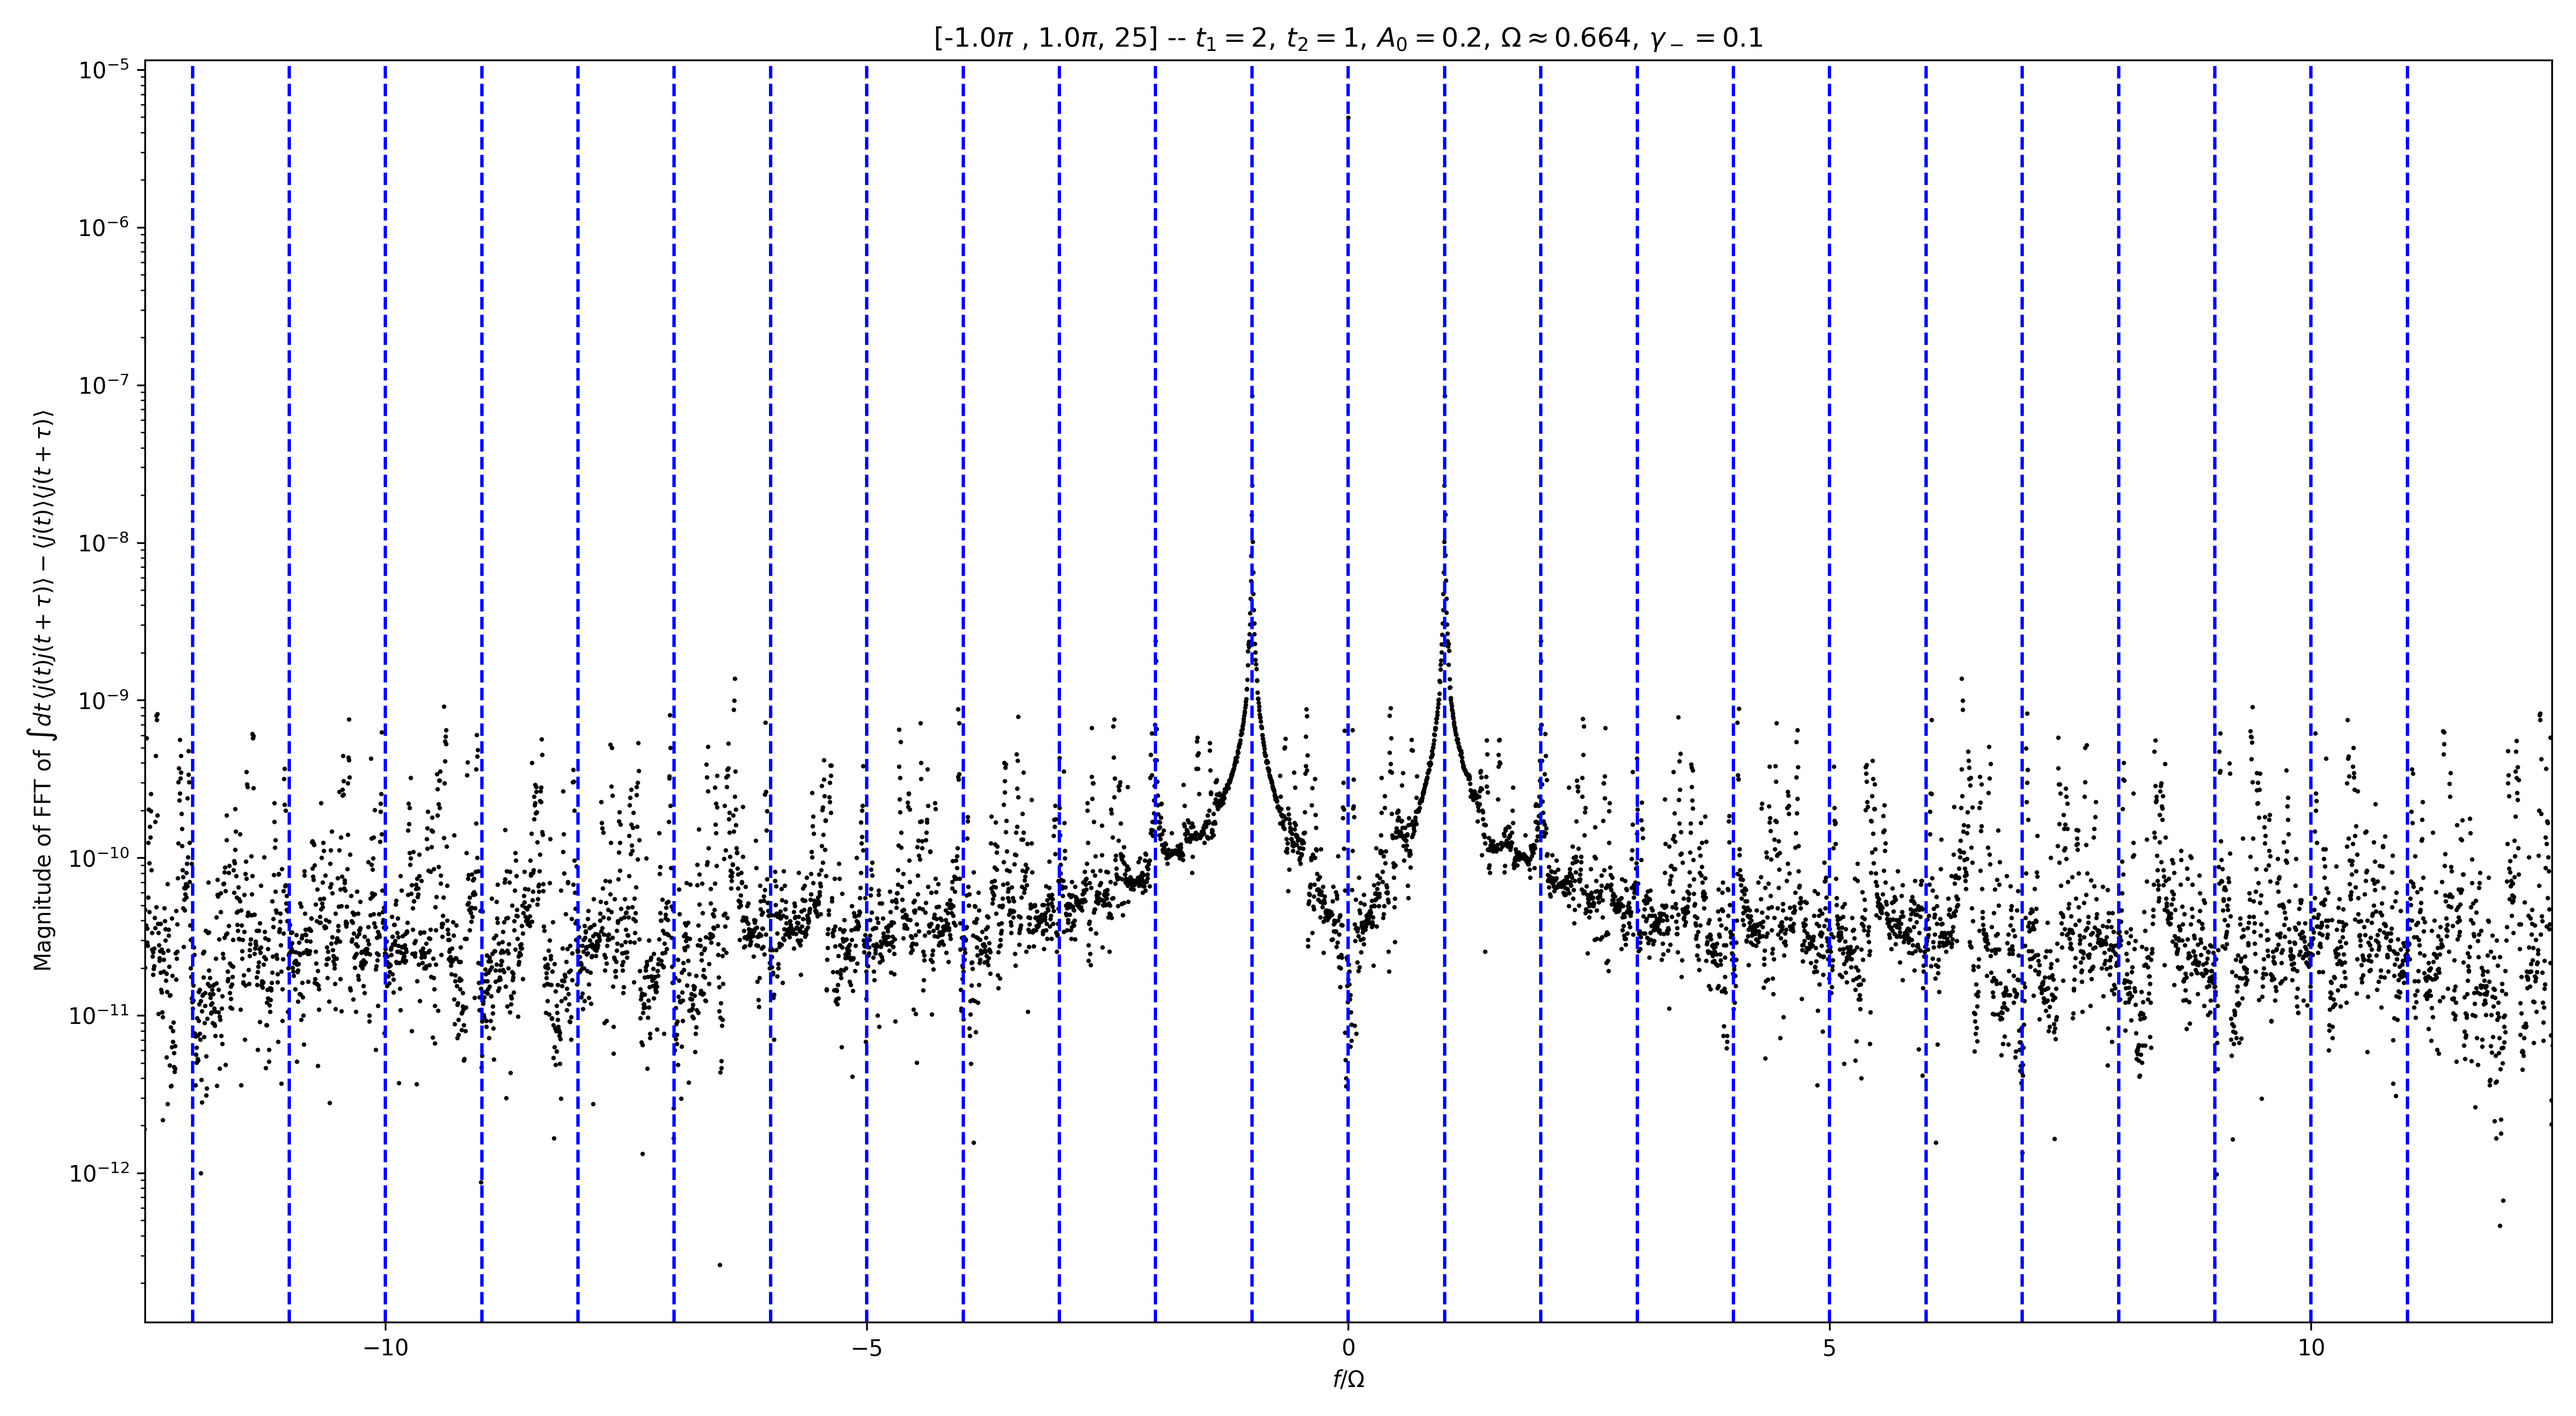
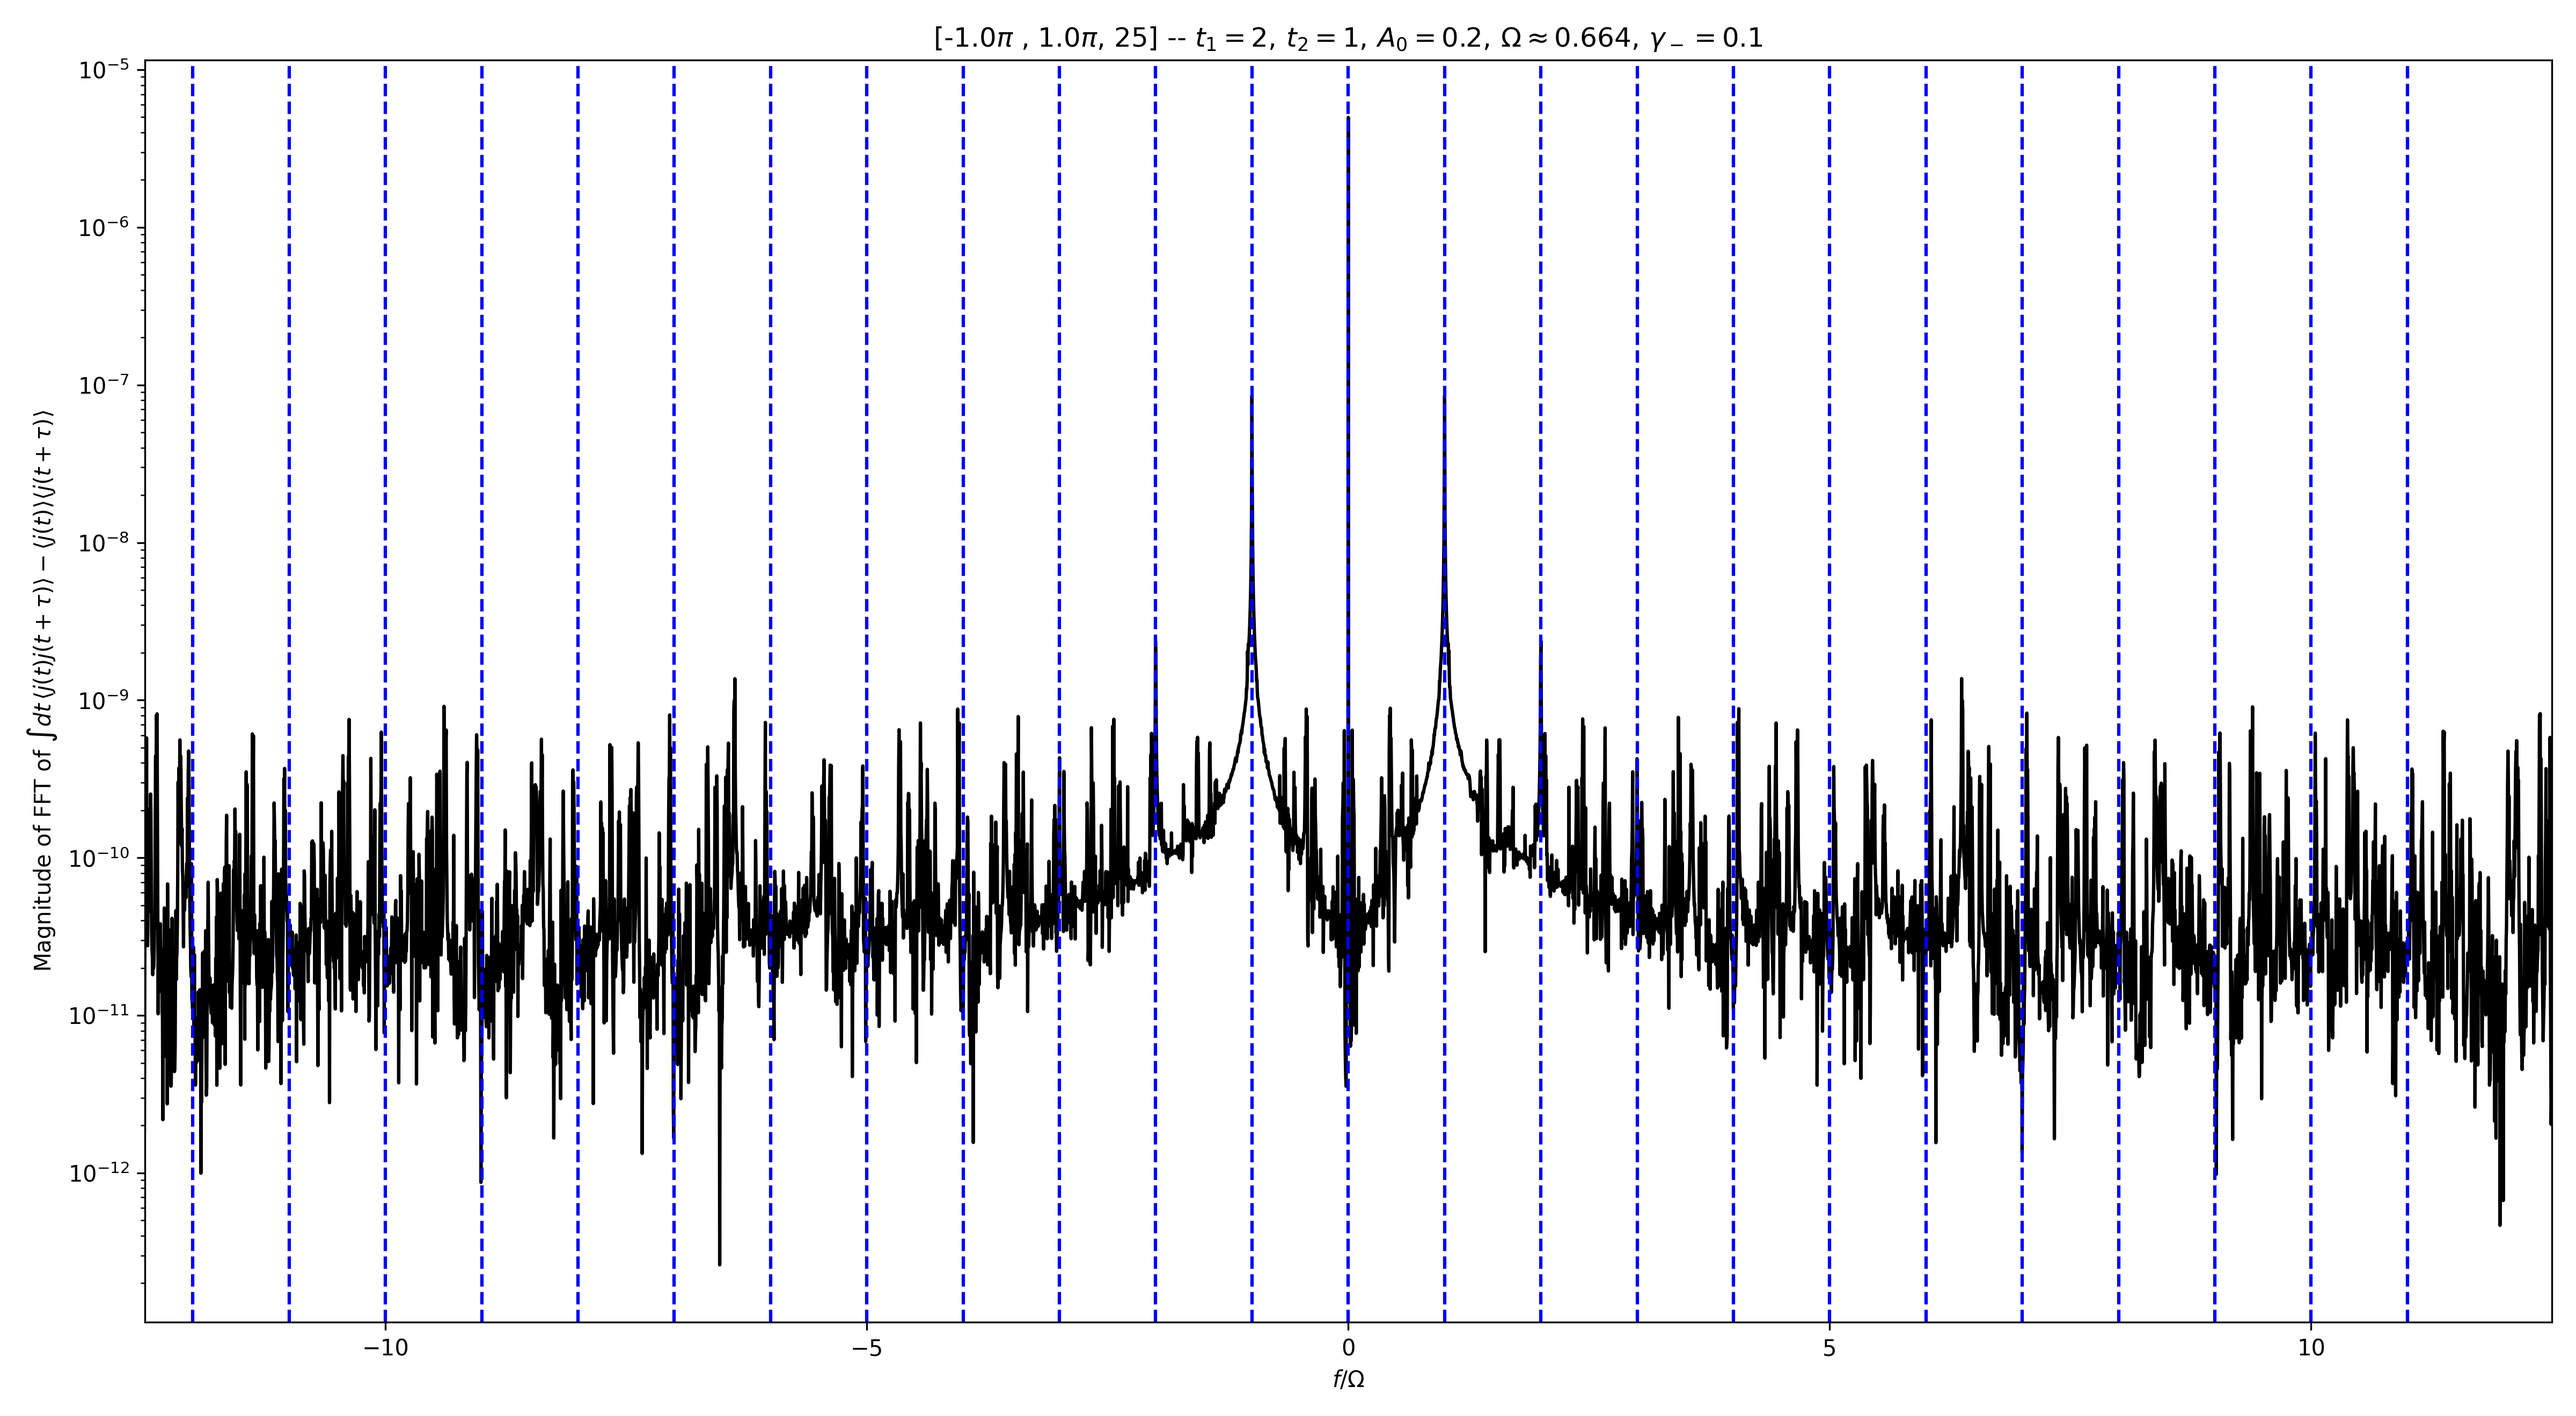
Added a bunch of plots trying to compare my and Denis' results, ran the code a bunch of times for different number of and values of k. Also, created paulialgebra.py to help with faster pauli algebra calclations, renamed denis' code to DenisSSHModel, and created denis-run which can run denis' code an

Changed region(s): [[0.0312, 0.497, 1.0, 0.8076]]

diff --git a/1d-ssh-plotting.py b/1d-ssh-plotting.py
@@ -1,11 +1,11 @@
 import numpy as np
 from SSHModel import *
 
-numK, numT = 75, 10
+numK, numT = 25, 10
 sim = SSHSimulation.Load(f"simulation-instances/numK: {numK}, numT: {numT}.pkl.gz")
 vis = SSHVisualiser(sim, f"plots/numK: {numK}, numT: {numT}")
 
-k = sim.momentums[2]
+# k = sim.momentums[2]
 # for k in sim.momentums:
 # vis.PlotSingleTimeCorrelations(k,
 #                             saveFigs = True,
@@ -13,9 +13,9 @@ k = sim.momentums[2]
 #                             overplotFourierSeries = True,
 #                             overplotTAxis = True)
 
-vis.PlotSingleTimeCorrelationFourierDifference(k,
-                                               saveFigs = True,
-                                               show = True)
+# vis.PlotSingleTimeCorrelationFourierDifference(k,
+#                                                saveFigs = True,
+#                                                show = True)
 
 # vis.PlotDoubleTimeCorrelations(k,
 #                             format = 'noise',
@@ -63,21 +63,21 @@ vis.PlotSingleTimeCorrelationFourierDifference(k,
 
 # # $\int dt\, \langle j(t) j (t + \tau) \rangle - \langle j(t) \rangle \langle j(t + \tau) \rangle$
 
-# vis.PlotIntegratedDoubleTimeCurrent(format='connected',
-#                                     saveFigs = True,
-#                                     show = True,
-#                                     xLim = (95, 100),
-#                                     yLim = (-5e-9, 5e-9)
-#                                     )
+vis.PlotIntegratedDoubleTimeCurrent(format='connected',
+                                    saveFigs = True,
+                                    show = True
+                                    # xLim = (95, 100),
+                                    # yLim = (-5e-9, 5e-9)
+                                    )
 
 # vis.PlotConnectedCurrentTerms(saveFigs = True,
 #                               show = False,
 #                               yLim = None
 #                               )
 
-# vis.PlotConnectedCurrentFFT(saveFigs = True,
-#                             show = True
-#                             )
+vis.PlotConnectedCurrentFFT(saveFigs = True,
+                            show = True
+                            )
 
 # vis.PlotHarmonics(saveFigs = True,
 #                   show = True

diff --git a/denis-run.py b/denis-run.py
@@ -1,0 +1,60 @@
+from DenisSSHModel import One_D_SSH_Model
+import matplotlib.pyplot as plt
+import numpy as np
+
+plt.style.use('stylesheet.mplstyle')
+plt.rcParams['text.usetex'] = False
+plottingFunctions = [lambda x: np.abs(x), lambda x: x.real, lambda x: x.imag]
+plottingPrefixes = ['Magnitude of', 'Real part of', 'Imaginary part of']
+
+ssh = One_D_SSH_Model(t_points = 10)
+final_corr = np.zeros((len(ssh.time_inf), len(ssh.time)), dtype=complex)
+
+momentums = np.linspace(-np.pi, np.pi, 25)
+for i, k in enumerate(momentums):
+    print(f"Calculating correlation for k = {k} ({i + 1} / {momentums.size})...")
+    final_corr += ssh.correlator(k, order='reverse')
+
+    # nrows, ncols = 1, 2
+    # fig, ax = plt.subplots(nrows, ncols)
+
+    # for col in range(ncols):
+    #     mesh = ax[col].pcolormesh(ssh.time,
+    #                             ssh.time_inf,
+    #                             plottingFunctions[col](corr),
+    #                             cmap = 'bwr',
+    #                             shading = 'nearest')
+
+    #     ax[col].set_xlabel("tau")
+    #     ax[col].set_ylabel("t")
+    #     plt.colorbar(mesh, ax=ax[col])
+
+    # plt.tight_layout()
+    # # plt.show()
+    # plt.close()
+
+integratedcorr = ssh.integration_over_period(final_corr)
+
+nrows, ncols = 3, 1
+fig, ax = plt.subplots(nrows, ncols)
+
+for row in range(nrows):
+    ax[row].plot(ssh.time,
+                 plottingFunctions[row](integratedcorr),
+                 color = 'black')
+    ax[row].set_xlabel("tau")
+    ax[row].set_ylabel(f"{plottingPrefixes[row]} Connected Current Correlator")
+
+plt.plot(ssh.time, integratedcorr.imag)
+plt.tight_layout()
+plt.show()
+plt.close()
+
+plt.figure()
+mask = ssh.time >= 60
+masked_time = ssh.time[mask]
+freqAxis = np.fft.fftshift(np.fft.fftfreq(masked_time.size, d=np.mean(np.diff(masked_time)))) / ssh.omega
+plt.semilogy(freqAxis, np.abs(np.fft.fftshift(np.fft.fft(integratedcorr[mask]))))
+plt.xlim(-12.5, 12.5)
+plt.show()
+plt.close()

diff --git a/SSHModel/SSHVisualiser.py b/SSHModel/SSHVisualiser.py
@@ -451,17 +451,26 @@ class SSHVisualiser:
         labels = ['Magnitude', 'Real', 'Imag']
 
         for funcIndex in range(len(self.__plottingFunctions)):
-            positiveMask = self.__plottingFunctions[funcIndex](currentData.freqConnectedCorrelator) >= 0
 
-            plt.semilogy(self.__axes.freqAxis[positiveMask],
-                        self.__plottingFunctions[funcIndex](currentData.freqConnectedCorrelator)[positiveMask],
-                        'o', ms=1,
-                        color = 'black')
+            # if we're plotting magnitude, just plot with connected lines.
+            if funcIndex == 0:
+                plt.semilogy(self.__axes.freqAxis,
+                            self.__plottingFunctions[funcIndex](currentData.freqConnectedCorrelator),
+                            color = 'black')
+
+            else:
+                positiveMask = self.__plottingFunctions[funcIndex](currentData.freqConnectedCorrelator) >= 0
+
+                plt.semilogy(self.__axes.freqAxis[positiveMask],
+                            self.__plottingFunctions[funcIndex](currentData.freqConnectedCorrelator)[positiveMask],
+                            'o', ms = 1,
+                            color = 'black')
     
-            plt.semilogy(self.__axes.freqAxis[~positiveMask],
-                        -self.__plottingFunctions[funcIndex](currentData.freqConnectedCorrelator)[~positiveMask],
-                        'o', ms=1,
-                        color = 'red')
+                plt.semilogy(self.__axes.freqAxis[~positiveMask],
+                            -self.__plottingFunctions[funcIndex](currentData.freqConnectedCorrelator)[~positiveMask],
+                            'o', ms = 1,
+                            color = 'red')
+            
 
             plt.xlabel(self.__fLabel)
             plt.ylabel(fr"{self.__plottingPrefixes[funcIndex]} FFT of $\int dt\, \langle j(t) j(t + \tau) \rangle - \langle j(t) \rangle \langle j(t + \tau) \rangle$")

diff --git a/DenisSSHModel.py b/DenisSSHModel.py
@@ -13,7 +13,7 @@ matplotlib.use('macosx')
 
 
 class One_D_SSH_Model:
-    def __init__(self, omega=2.0 / 3.01, amp=0.2, nc=9, number_points_k=251, t1=2.0, t2=1.0, dt=0.010122):
+    def __init__(self, omega=2.0 / 3.01, amp=0.2, nc=9, number_points_k=251, t1=2.0, t2=1.0, dt=0.010122, t_points=21):
         self.t1 = t1  # t_1 parameter of 1D SSH
         self.t2 = t2  # t_2 parameter of 1D SSH
         self.omega = omega  # \omega carrying frequency of pumping
@@ -33,7 +33,7 @@ class One_D_SSH_Model:
         self.time = np.linspace(0.0, self.t_max, int(self.t_max / self.dt), endpoint=True)
 
         # Generates 21 points within the first pumping period.
-        self.time_inf = np.linspace(0.0, 2.0 * pi / omega, 21, endpoint=True)
+        self.time_inf = np.linspace(0.0, 2.0 * pi / omega, t_points, endpoint=True)
         # Multiplies fftfreq frequencies by the period in (s), so divides by the frequency in Hz.
         # Hence, normalises the frequencies to units of harmonics of the driving frequency.
         self.freq = pi * 2.0 * fft.fftfreq(self.time.size, self.dt) / self.omega  # normalized Fourier frequency#
@@ -383,4 +383,4 @@ class One_D_SSH_Model:
 
     def integration_over_period(self, func):
         """Integrated over the steady state period and divides by the period."""
-        return self.omega * simpson(func, self.time_inf, axis=0) / (2 * pi)  # simpson integration 
+        return self.omega * simpson(func, self.time_inf, axis=0) / (2 * pi)  # simpson integration

diff --git a/SSHModel/SSH.py b/SSHModel/SSH.py
@@ -133,7 +133,9 @@ class SSH:
             'vectorized' : True
         }
 
+        print("Solving single-time...")
         self.__correlationData.singleTime = self.__CalculateSingleTimeCorrelations(initialConditions, odeParams)
+        print("Solved.")
 
         minusSeries, plusSeries, zSeries = self.__CalculateSingleTimeFourierSeries()
         self.__correlationData.singleFourierSeries = [minusSeries, plusSeries, zSeries]
@@ -149,7 +151,9 @@ class SSH:
                 numPeriods = 10
             ))
 
+        print("Solving double-time...")
         self.__correlationData.doubleTime = self.__CalculateDoubleTimeCorrelations(odeParams)
+        print("Solved.")
 
     @SSHProfiler.profile
     def __CalculateSteadyStateMask(self, numPeriods: int=None) -> np.ndarray[bool]:
@@ -381,6 +385,7 @@ class SSH:
 
         # Loops through each initial condition time t.
         for tIndex, t in enumerate(self.__axes.tAxisSec):
+                print(f"Solving {tIndex + 1}/{self.__axes.tAxisSec.size}...")
                 # Solves system for each left-operator.
                 for i in range(3):
                     doubleTime[i, :, tIndex, :] = integrate.solve_ivp(

diff --git a/1d-ssh-model.py b/1d-ssh-model.py
@@ -32,7 +32,8 @@ if __name__ == "__main__":
                 print("Invalid mode.")
                 quit()
 
-    initialConditions = np.array([-0.5, -0.5, 0], dtype=complex)
+    # initialConditions = np.array([-0.5, -0.5, 0], dtype=complex)
+    initialConditions = np.array([0, 0, -1], dtype=complex)
 
     params = data.EnsembleParameters(
         t1 = 2,
@@ -44,8 +45,13 @@ if __name__ == "__main__":
     )
 
     sim = SSHSimulation(params)
-    sim.AddMomentum(np.linspace(-np.pi, np.pi, numK))
+    sim.AddMomentum(np.linspace(-np.pi, np.pi, 25))
+
     # sim.AddMomentum(np.pi / 4)
+    numT = 21
+    tauAxis = np.linspace(0, 100, 5000)
+    steadyStateCutoff = 60
+
     sim.Run(
         initialConditions = initialConditions,
         tauAxisDim = tauAxis,

diff --git a/paulialgebra.py b/paulialgebra.py
@@ -1,0 +1,22 @@
+import numpy as np
+
+m = np.array([[0, 0],
+              [1, 0]])
+
+p = np.array([[0, 1],
+              [0, 0]])
+
+x = np.array([[0, 1],
+              [1, 0]])
+
+y = np.array([[0, -1j],
+              [1j, 0]])
+
+z = np.array([[1, 0],
+              [0, -1]])
+
+def comm(A, B):
+    return A @ B - B @ A
+
+def anti_comm(A, B):
+    return A @ B + B @ A
